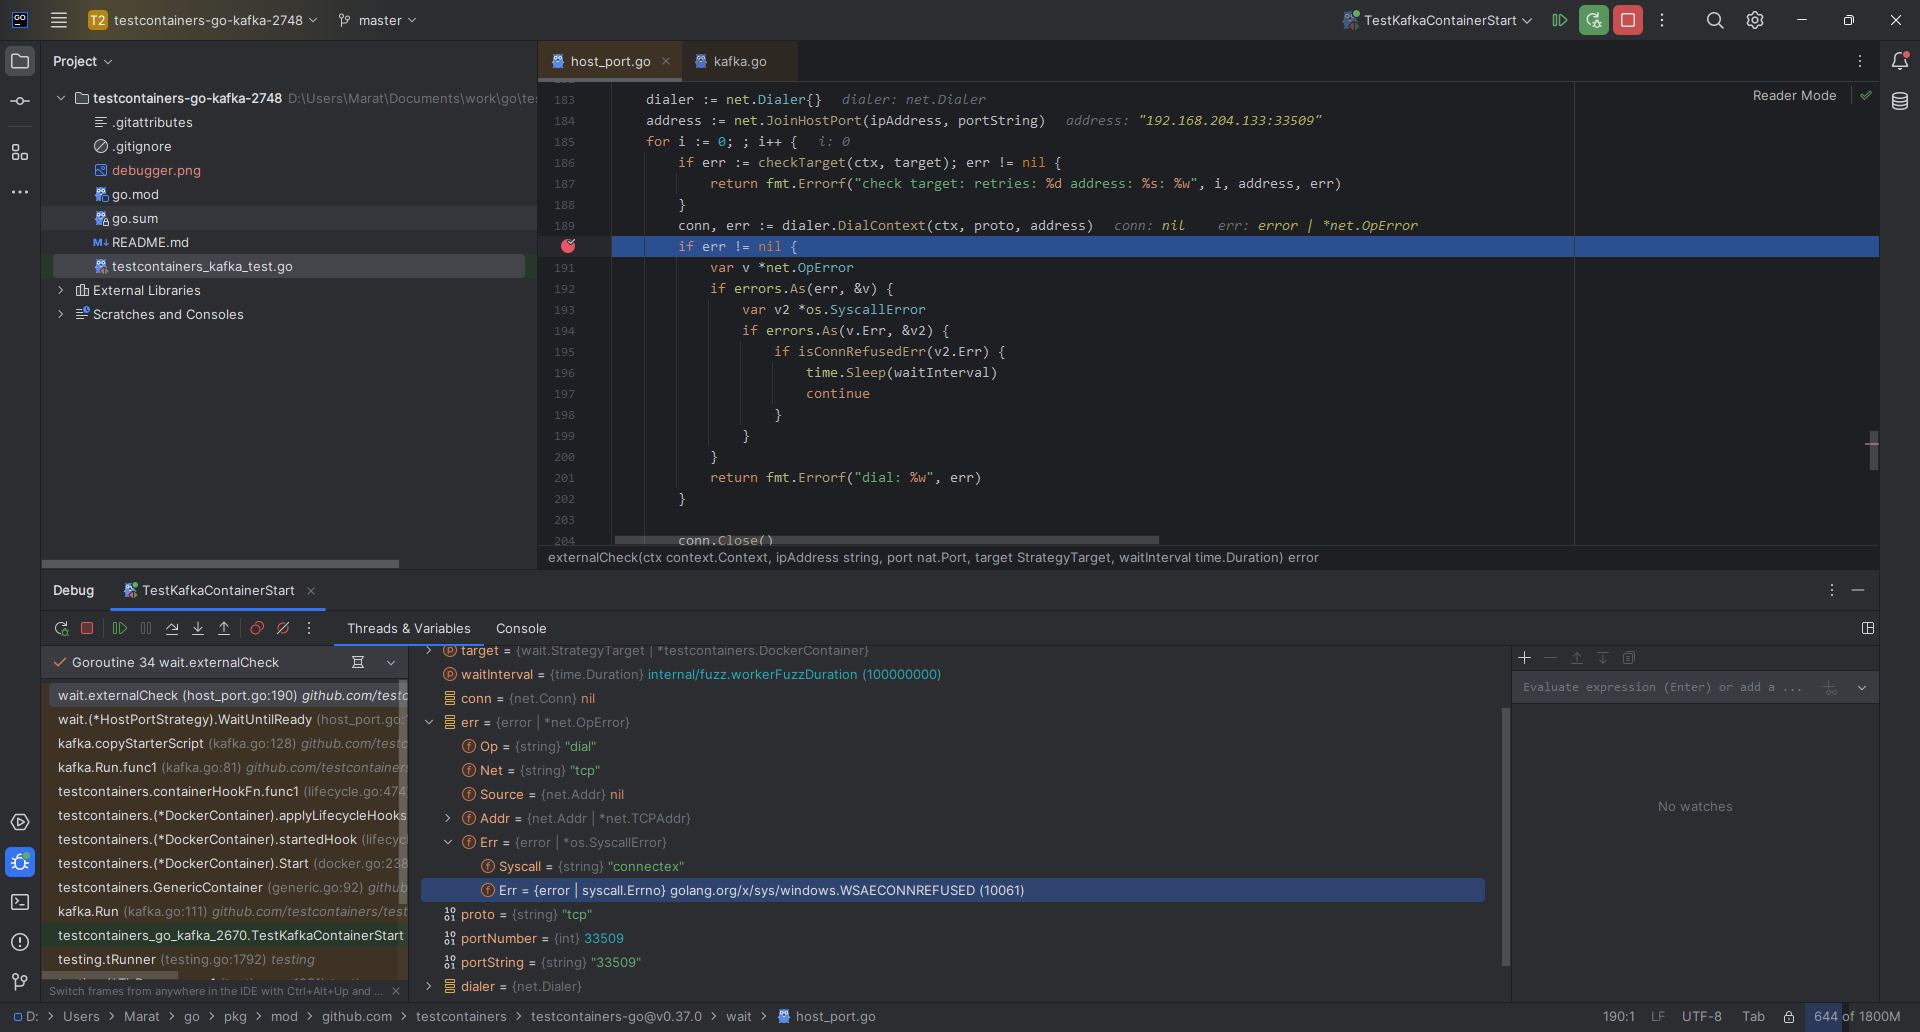
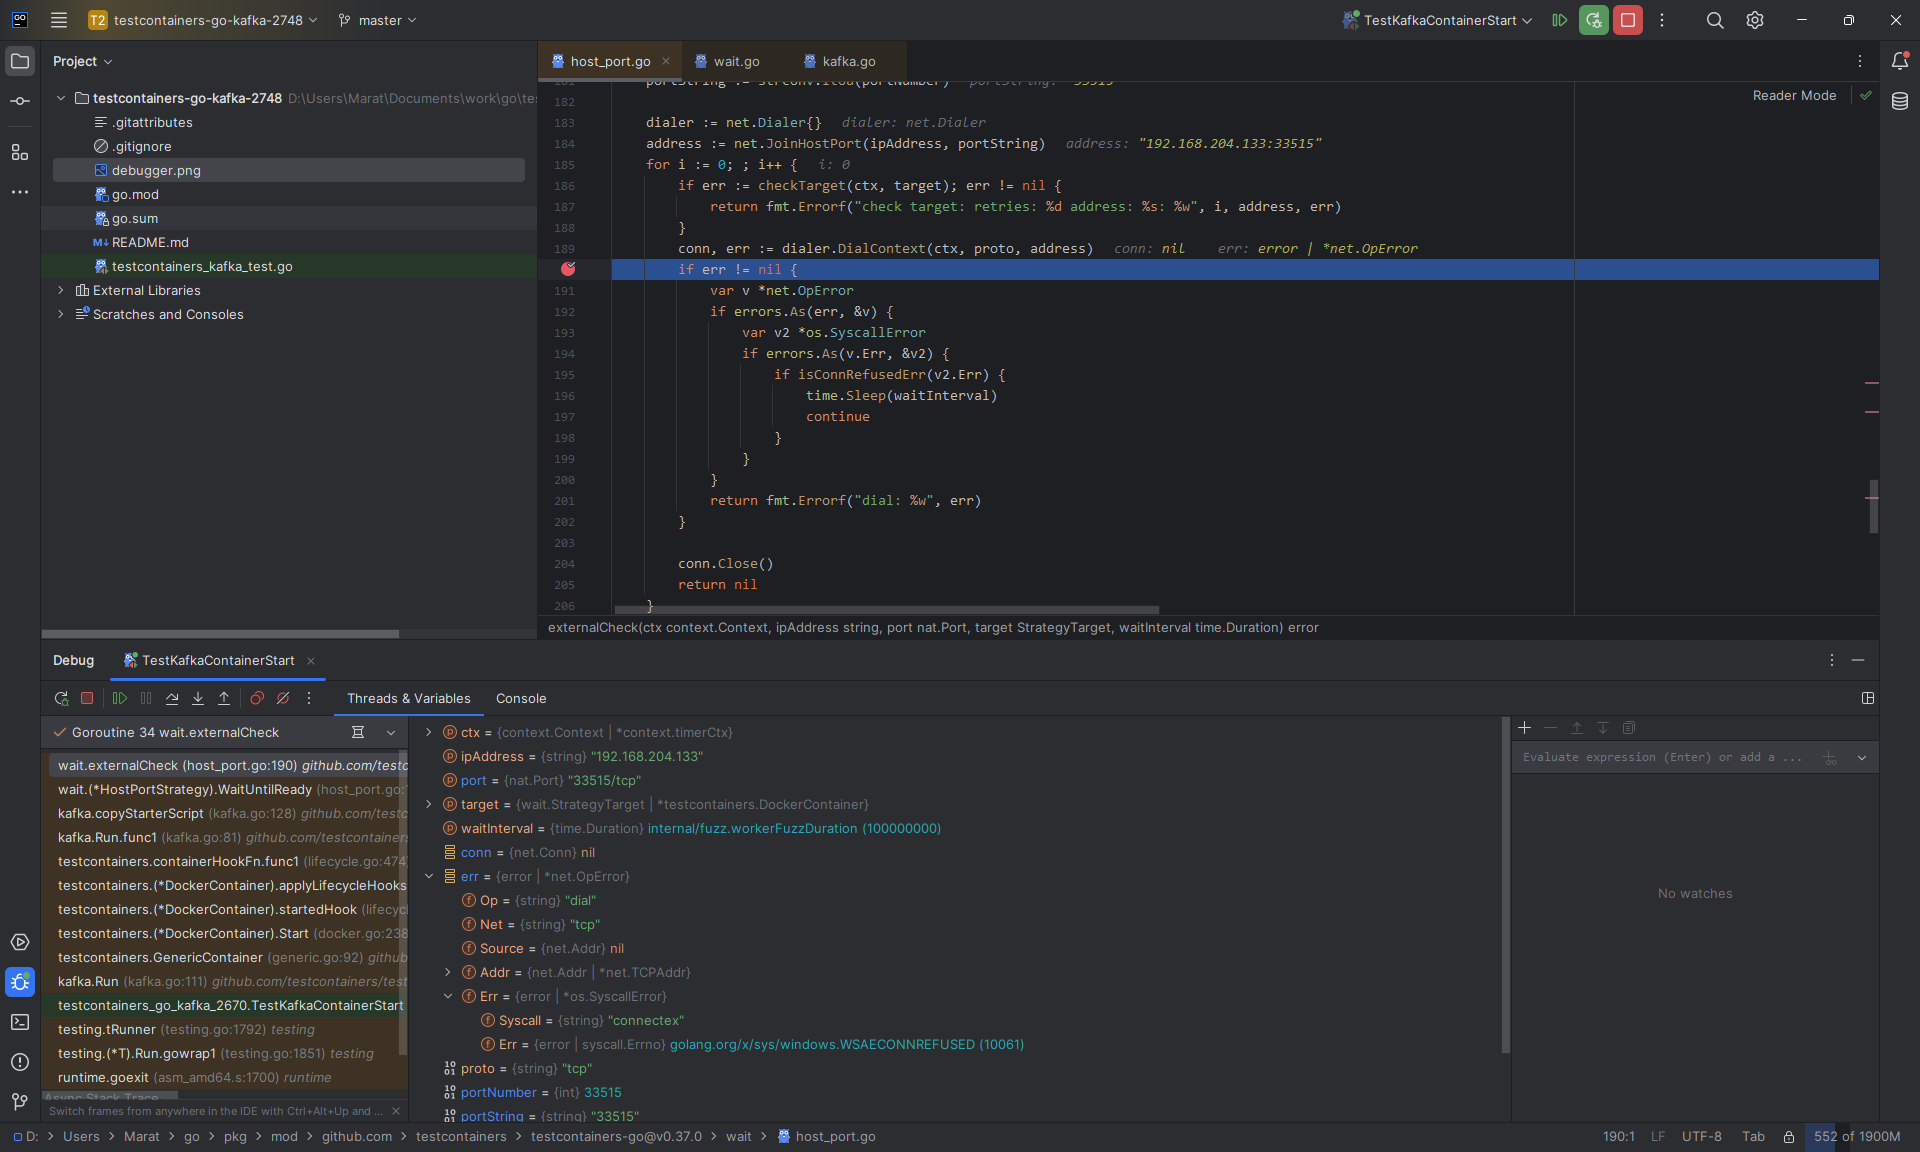
Fixed description of results of tests.

diff --git a/README.md b/README.md
@@ -144,53 +144,38 @@ State of container with Kafka checked **from the same host** where Docker Engine
 ```text
 $ docker ps -a
 CONTAINER ID   IMAGE                                COMMAND                  CREATED         STATUS         PORTS                                                               NAMES
-cac0afcc121b   testcontainers/ryuk:0.11.0           "/bin/ryuk"              4 seconds ago   Up 4 seconds   0.0.0.0:33495->8080/tcp, [::]:33495->8080/tcp                       reaper_03da62cc8c553184cee2b5c45149d96edccd7976ebcef5410fc2a61325c57049
-9dfd9f6cc511   confluentinc/confluent-local:7.5.0   "sh -c 'while [ ! -f…"   4 seconds ago   Up 3 seconds   8082/tcp, 9092/tcp, 0.0.0.0:33496->9093/tcp, [::]:33496->9093/tcp   quizzical_hermann
-$ docker top 9dfd9f6cc511
+c36aae9b5302   testcontainers/ryuk:0.11.0           "/bin/ryuk"              8 seconds ago   Up 7 seconds   0.0.0.0:33516->8080/tcp, [::]:33516->8080/tcp                       reaper_2945bdfb5d843491ed4d83aaa53b071a4521f14a95f3a97a65dad31e84165a41
+a8cb692b6161   confluentinc/confluent-local:7.5.0   "sh -c 'while [ ! -f…"   8 seconds ago   Up 7 seconds   8082/tcp, 9092/tcp, 0.0.0.0:33517->9093/tcp, [::]:33517->9093/tcp   crazy_kalam
+$ docker top a8cb692b6161
 UID                 PID                 PPID                C                   STIME               TTY                 TIME                CMD
-abrarovm            285645              285623              0                   21:48               ?                   00:00:00            sh -c while [ ! -f /usr/sbin/testcontainers_start.sh ]; do sleep 0.1; done; bash /usr/sbin/testcontainers_start.sh
-abrarovm            285859              285645              0                   21:49               ?                   00:00:00            /usr/bin/coreutils --coreutils-prog-shebang=sleep /usr/bin/sleep 0.1
-$ docker logs 9dfd9f6cc511
-$ nc -vz 127.0.0.1 33495
+abrarovm            306043              306020              0                   23:33               ?                   00:00:00            sh -c while [ ! -f /usr/sbin/testcontainers_start.sh ]; do sleep 0.1; done; bash /usr/sbin/testcontainers_start.sh
+abrarovm            306316              306043              0                   23:33               ?                   00:00:00            /usr/bin/coreutils --coreutils-prog-shebang=sleep /usr/bin/sleep 0.1
+$ docker logs a8cb692b6161
+$ nc -vz 127.0.0.1 33517
 Ncat: Version 7.92 ( https://nmap.org/ncat )
-Ncat: Connected to 127.0.0.1:33495.
+Ncat: Connected to 127.0.0.1:33517.
 Ncat: 0 bytes sent, 0 bytes received in 0.01 seconds.
 ```
 
 State of container with Kafka checked **from remote host** (comparing to host where Docker Engine runs) on Windows 11 24H2 when the test is stopped at breakpoint (PowerShell 5.1):
 
 ```text
-> docker -H 192.168.204.133:2375 version
-Client:
- Version:           28.1.1
- API version:       1.49
- Go version:        go1.23.8
- Git commit:        4eba377
- Built:             Fri Apr 18 09:53:24 2025
- OS/Arch:           windows/amd64
- Context:           default
+> docker ps -a
+CONTAINER ID   IMAGE                                COMMAND                  CREATED          STATUS          PORTS                                                               NAMES
+c36aae9b5302   testcontainers/ryuk:0.11.0           "/bin/ryuk"              43 seconds ago   Up 43 seconds   0.0.0.0:33516->8080/tcp, [::]:33516->8080/tcp                       reaper_2945bdfb5d843491ed4d83aaa53b071a4521f14a95f3a97a65dad31e84165a41
+a8cb692b6161   confluentinc/confluent-local:7.5.0   "sh -c 'while [ ! -f…"   43 seconds ago   Up 43 seconds   8082/tcp, 9092/tcp, 0.0.0.0:33517->9093/tcp, [::]:33517->9093/tcp   crazy_kalam
+> docker top a8cb692b6161
+UID                 PID                 PPID                C                   STIME               TTY                 TIME                CMD
+abrarovm            306043              306020              0                   23:33               ?                   00:00:00            sh -c while [ ! -f /usr/sbin/testcontainers_start.sh ]; do sleep 0.1; done; bash /usr/sbin/testcontainers_start.sh
+abrarovm            306672              306043              0                   23:34               ?                   00:00:00            /usr/bin/coreutils --coreutils-prog-shebang=sleep /usr/bin/sleep 0.1
+> docker logs a8cb692b6161
+> Test-NetConnection -InformationLevel "Detailed" -ComputerName 192.168.204.133 -Port 33517
+TCP connect to (192.168.204.133 : 33517) failed
 
-Server: Docker Engine - Community
- Engine:
-  Version:          28.1.1
-  API version:      1.49 (minimum version 1.24)
-  Go version:       go1.23.8
-  Git commit:       01f442b
-  Built:            Fri Apr 18 09:52:20 2025
-  OS/Arch:          linux/amd64
-  Experimental:     false
- containerd:
-  Version:          1.7.27
-  GitCommit:        05044ec0a9a75232cad458027ca83437aae3f4da
- runc:
-  Version:          1.2.5
-  GitCommit:        v1.2.5-0-g59923ef
- docker-init:
-  Version:          0.19.0
-  GitCommit:        de40ad0
-> Test-NetConnection -InformationLevel "Detailed" -ComputerName 192.168.204.133 -Port 33495                                                                                                                                                                                                                                                                                                                                                                                                                                                                                                                                       ComputerName            : 192.168.204.133
+
+ComputerName            : 192.168.204.133
 RemoteAddress           : 192.168.204.133
-RemotePort              : 33495
+RemotePort              : 33517
 NameResolutionResults   : 192.168.204.133
                           dev.local
                           dev.local
@@ -200,7 +185,9 @@ IsAdmin                 : False
 InterfaceAlias          : VMware Network Adapter VMnet8
 SourceAddress           : 192.168.204.1
 NetRoute (NextHop)      : 0.0.0.0
-TcpTestSucceeded        : True
+PingSucceeded           : True
+PingReplyDetails (RTT)  : 0 ms
+TcpTestSucceeded        : False
 ```
 
 Output of test:
@@ -208,9 +195,9 @@ Output of test:
 ```text
 === RUN   TestKafkaContainerStart
     testcontainers_kafka_test.go:16: starting container using image: confluentinc/confluent-local:7.5.0
-    testcontainers_kafka_test.go:28: successfully started container: 9dfd9f6cc511bd6995a191aea0567480de22ef40965e14cfc0cbbcda305053f7
-    testcontainers_kafka_test.go:22: terminating container: 9dfd9f6cc511bd6995a191aea0567480de22ef40965e14cfc0cbbcda305053f7
---- PASS: TestKafkaContainerStart (166.27s)
+    testcontainers_kafka_test.go:28: successfully started container: a8cb692b616196e4baf38e530cfaceaf5e8d3f69fd70e6bf7465f0f047bd72ff
+    testcontainers_kafka_test.go:22: terminating container: a8cb692b616196e4baf38e530cfaceaf5e8d3f69fd70e6bf7465f0f047bd72ff
+--- PASS: TestKafkaContainerStart (106.84s)
 PASS
 ```
 
@@ -224,17 +211,17 @@ State of container with Kafka checked from **the same host** where Docker Engine
 
 ```text
 $ docker ps -a
-CONTAINER ID   IMAGE                                COMMAND                  CREATED          STATUS          PORTS                                                               NAMES
-6968841865fd   testcontainers/ryuk:0.11.0           "/bin/ryuk"              47 seconds ago   Up 46 seconds   0.0.0.0:33508->8080/tcp, [::]:33508->8080/tcp                       reaper_357e99596f55b3638f9295c30f454967464ea632c3dad166a8159a095e767733
-7c274cbbe962   confluentinc/confluent-local:7.5.0   "sh -c 'while [ ! -f…"   47 seconds ago   Up 44 seconds   8082/tcp, 9092/tcp, 0.0.0.0:33509->9093/tcp, [::]:33509->9093/tcp   practical_grothendieck
-$ docker top 7c274cbbe962
+CONTAINER ID   IMAGE                                COMMAND                  CREATED         STATUS         PORTS                                                               NAMES
+3054dcf954bc   testcontainers/ryuk:0.11.0           "/bin/ryuk"              2 minutes ago   Up 2 minutes   0.0.0.0:33514->8080/tcp, [::]:33514->8080/tcp                       reaper_78c66434cec24436dbfa80c8e2e87f28e286d698b674414ef2e2b205bc2169bf
+04ba25e43dd3   confluentinc/confluent-local:7.5.0   "sh -c 'while [ ! -f…"   2 minutes ago   Up 2 minutes   8082/tcp, 9092/tcp, 0.0.0.0:33515->9093/tcp, [::]:33515->9093/tcp   competent_feynman
+$ docker top 04ba25e43dd3
 UID                 PID                 PPID                C                   STIME               TTY                 TIME                CMD
-abrarovm            296846              296823              0                   22:45               ?                   00:00:00            sh -c while [ ! -f /usr/sbin/testcontainers_start.sh ]; do sleep 0.1; done; bash /usr/sbin/testcontainers_start.sh
-abrarovm            297435              296846              0                   22:46               ?                   00:00:00            /usr/bin/coreutils --coreutils-prog-shebang=sleep /usr/bin/sleep 0.1
-$ docker logs 7c274cbbe962
-$ nc -vz 127.0.0.1 33508
+abrarovm            303734              303710              0                   23:23               ?                   00:00:00            sh -c while [ ! -f /usr/sbin/testcontainers_start.sh ]; do sleep 0.1; done; bash /usr/sbin/testcontainers_start.sh
+abrarovm            305141              303734              0                   23:25               ?                   00:00:00            /usr/bin/coreutils --coreutils-prog-shebang=sleep /usr/bin/sleep 0.1
+$ docker logs 04ba25e43dd3
+$ nc -vz 127.0.0.1 33515
 Ncat: Version 7.92 ( https://nmap.org/ncat )
-Ncat: Connected to 127.0.0.1:33508.
+Ncat: Connected to 127.0.0.1:33515.
 Ncat: 0 bytes sent, 0 bytes received in 0.01 seconds.
 ```
 
@@ -243,17 +230,20 @@ State of container with Kafka checked **from remote host** (where the test runs)
 ```text
 > docker ps -a
 CONTAINER ID   IMAGE                                COMMAND                  CREATED         STATUS         PORTS                                                               NAMES
-6968841865fd   testcontainers/ryuk:0.11.0           "/bin/ryuk"              7 seconds ago   Up 7 seconds   0.0.0.0:33508->8080/tcp, [::]:33508->8080/tcp                       reaper_357e99596f55b3638f9295c30f454967464ea632c3dad166a8159a095e767733
-7c274cbbe962   confluentinc/confluent-local:7.5.0   "sh -c 'while [ ! -f…"   7 seconds ago   Up 4 seconds   8082/tcp, 9092/tcp, 0.0.0.0:33509->9093/tcp, [::]:33509->9093/tcp   practical_grothendieck
-> docker top 7c274cbbe962
+3054dcf954bc   testcontainers/ryuk:0.11.0           "/bin/ryuk"              7 seconds ago   Up 7 seconds   0.0.0.0:33514->8080/tcp, [::]:33514->8080/tcp                       reaper_78c66434cec24436dbfa80c8e2e87f28e286d698b674414ef2e2b205bc2169bf
+04ba25e43dd3   confluentinc/confluent-local:7.5.0   "sh -c 'while [ ! -f…"   7 seconds ago   Up 4 seconds   8082/tcp, 9092/tcp, 0.0.0.0:33515->9093/tcp, [::]:33515->9093/tcp   competent_feynman
+> docker top 04ba25e43dd3
 UID                 PID                 PPID                C                   STIME               TTY                 TIME                CMD
-abrarovm            296846              296823              0                   22:45               ?                   00:00:00            sh -c while [ ! -f /usr/sbin/testcontainers_start.sh ]; do sleep 0.1; done; bash /usr/sbin/testcontainers_start.sh
-abrarovm            297003              296846              0                   22:45               ?                   00:00:00            /usr/bin/coreutils --coreutils-prog-shebang=sleep /usr/bin/sleep 0.1
-> docker logs 7c274cbbe962
-> Test-NetConnection -InformationLevel "Detailed" -ComputerName 192.168.204.133 -Port 33508
+abrarovm            303734              303710              0                   23:23               ?                   00:00:00            sh -c while [ ! -f /usr/sbin/testcontainers_start.sh ]; do sleep 0.1; done; bash /usr/sbin/testcontainers_start.sh
+abrarovm            304379              303734              0                   23:24               ?                   00:00:00            /usr/bin/coreutils --coreutils-prog-shebang=sleep /usr/bin/sleep 0.1
+> docker logs 04ba25e43dd3
+> Test-NetConnection -InformationLevel "Detailed" -ComputerName 192.168.204.133 -Port 33515
+TCP connect to (192.168.204.133 : 33515) failed
+
+
 ComputerName            : 192.168.204.133
 RemoteAddress           : 192.168.204.133
-RemotePort              : 33508
+RemotePort              : 33515
 NameResolutionResults   : 192.168.204.133
                           dev.local
                           dev.local
@@ -263,7 +253,9 @@ IsAdmin                 : False
 InterfaceAlias          : VMware Network Adapter VMnet8
 SourceAddress           : 192.168.204.1
 NetRoute (NextHop)      : 0.0.0.0
-TcpTestSucceeded        : True
+PingSucceeded           : True
+PingReplyDetails (RTT)  : 0 ms
+TcpTestSucceeded        : False
 ```
 
 Output of test:
@@ -271,8 +263,8 @@ Output of test:
 ```text
 === RUN   TestKafkaContainerStart
     testcontainers_kafka_test.go:16: starting container using image: confluentinc/confluent-local:7.5.0
-    testcontainers_kafka_test.go:19: container start failed: generic container: start container: started hook: copy starter script: wait for exposed port: external check: check target: retries: 1 address: 192.168.204.133:33509: get state: Get "http://192.168.204.133:2375/v1.48/containers/7c274cbbe9622b3fa1a456dd90b9a0d0db462934d227c5cc067559f511ebce21/json": context deadline exceeded
---- FAIL: TestKafkaContainerStart (228.19s)
+    testcontainers_kafka_test.go:19: container start failed: generic container: start container: started hook: copy starter script: wait for exposed port: external check: check target: retries: 1 address: 192.168.204.133:33515: get state: Get "http://192.168.204.133:2375/v1.48/containers/04ba25e43dd3698f6d95a59f6b146cc9bd9d7102334d34f510713c4e70a76cf2/json": context deadline exceeded
+--- FAIL: TestKafkaContainerStart (165.63s)
 
 FAIL
 ```
